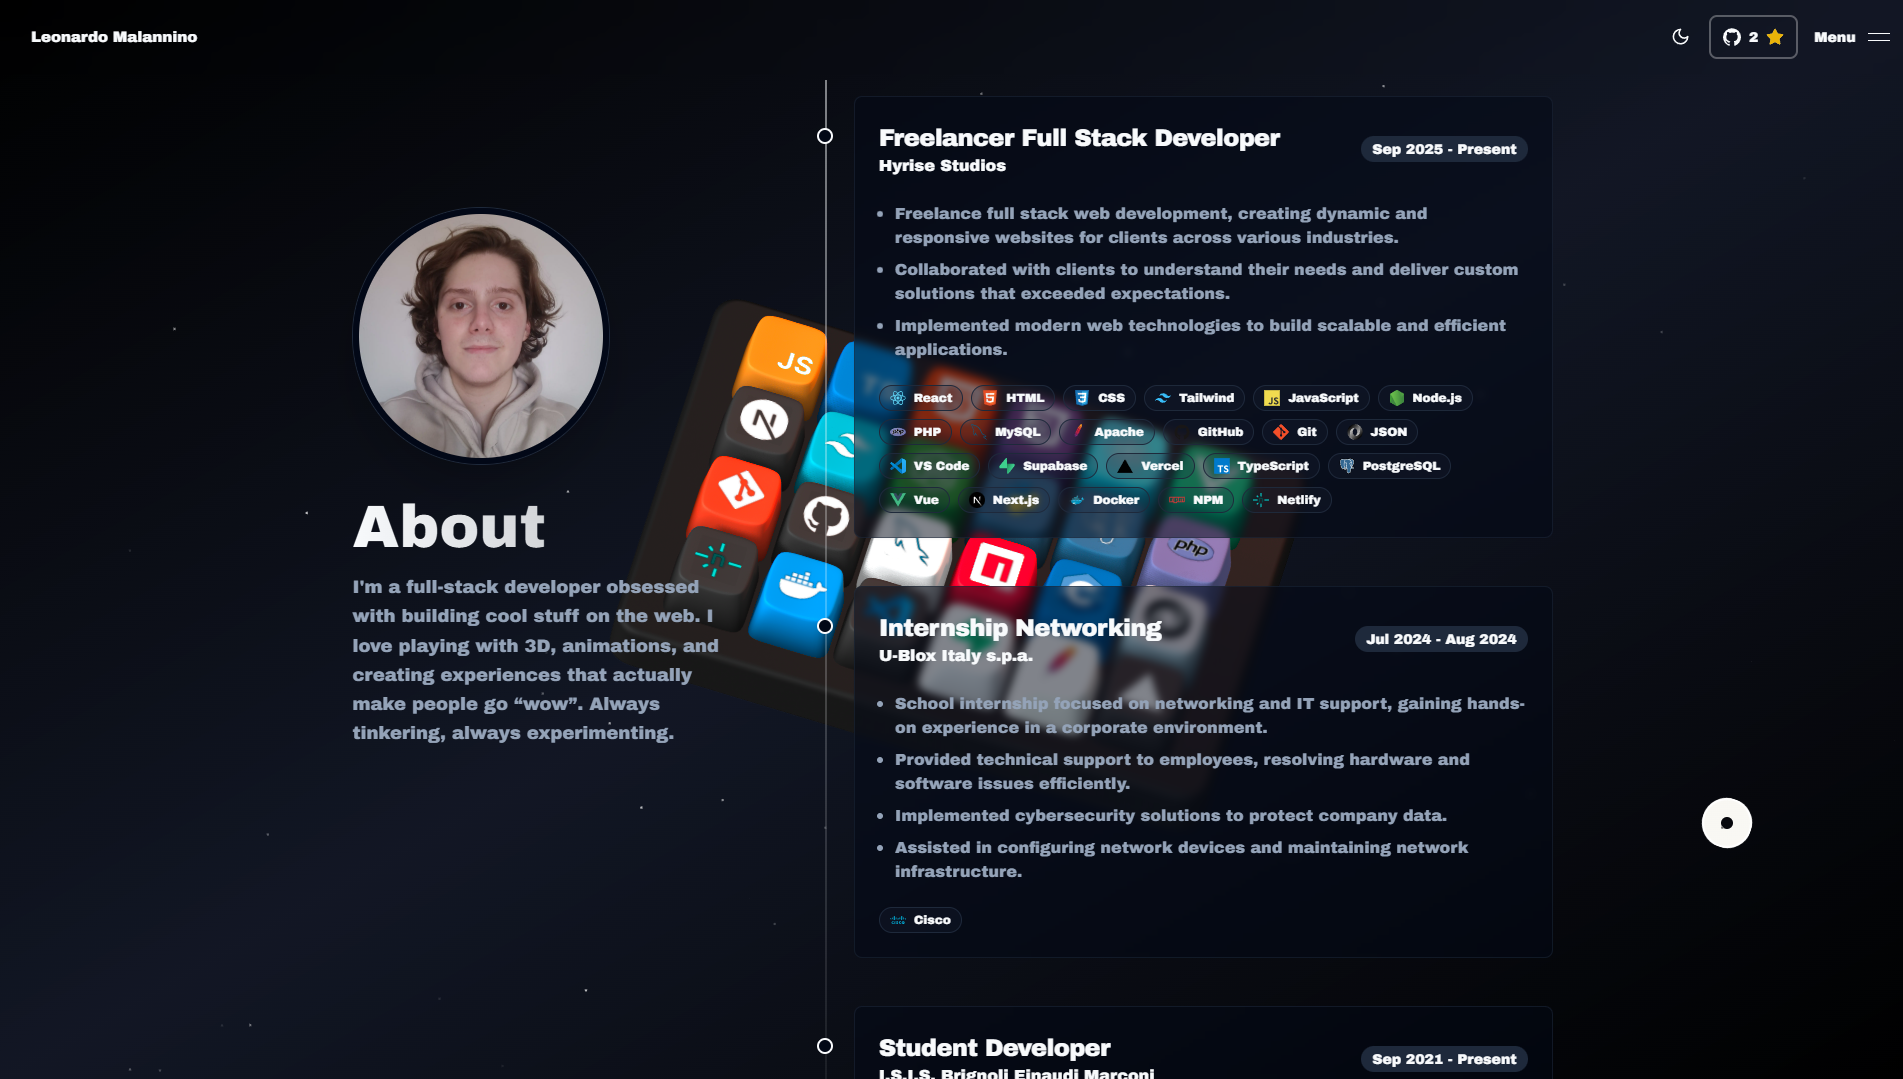
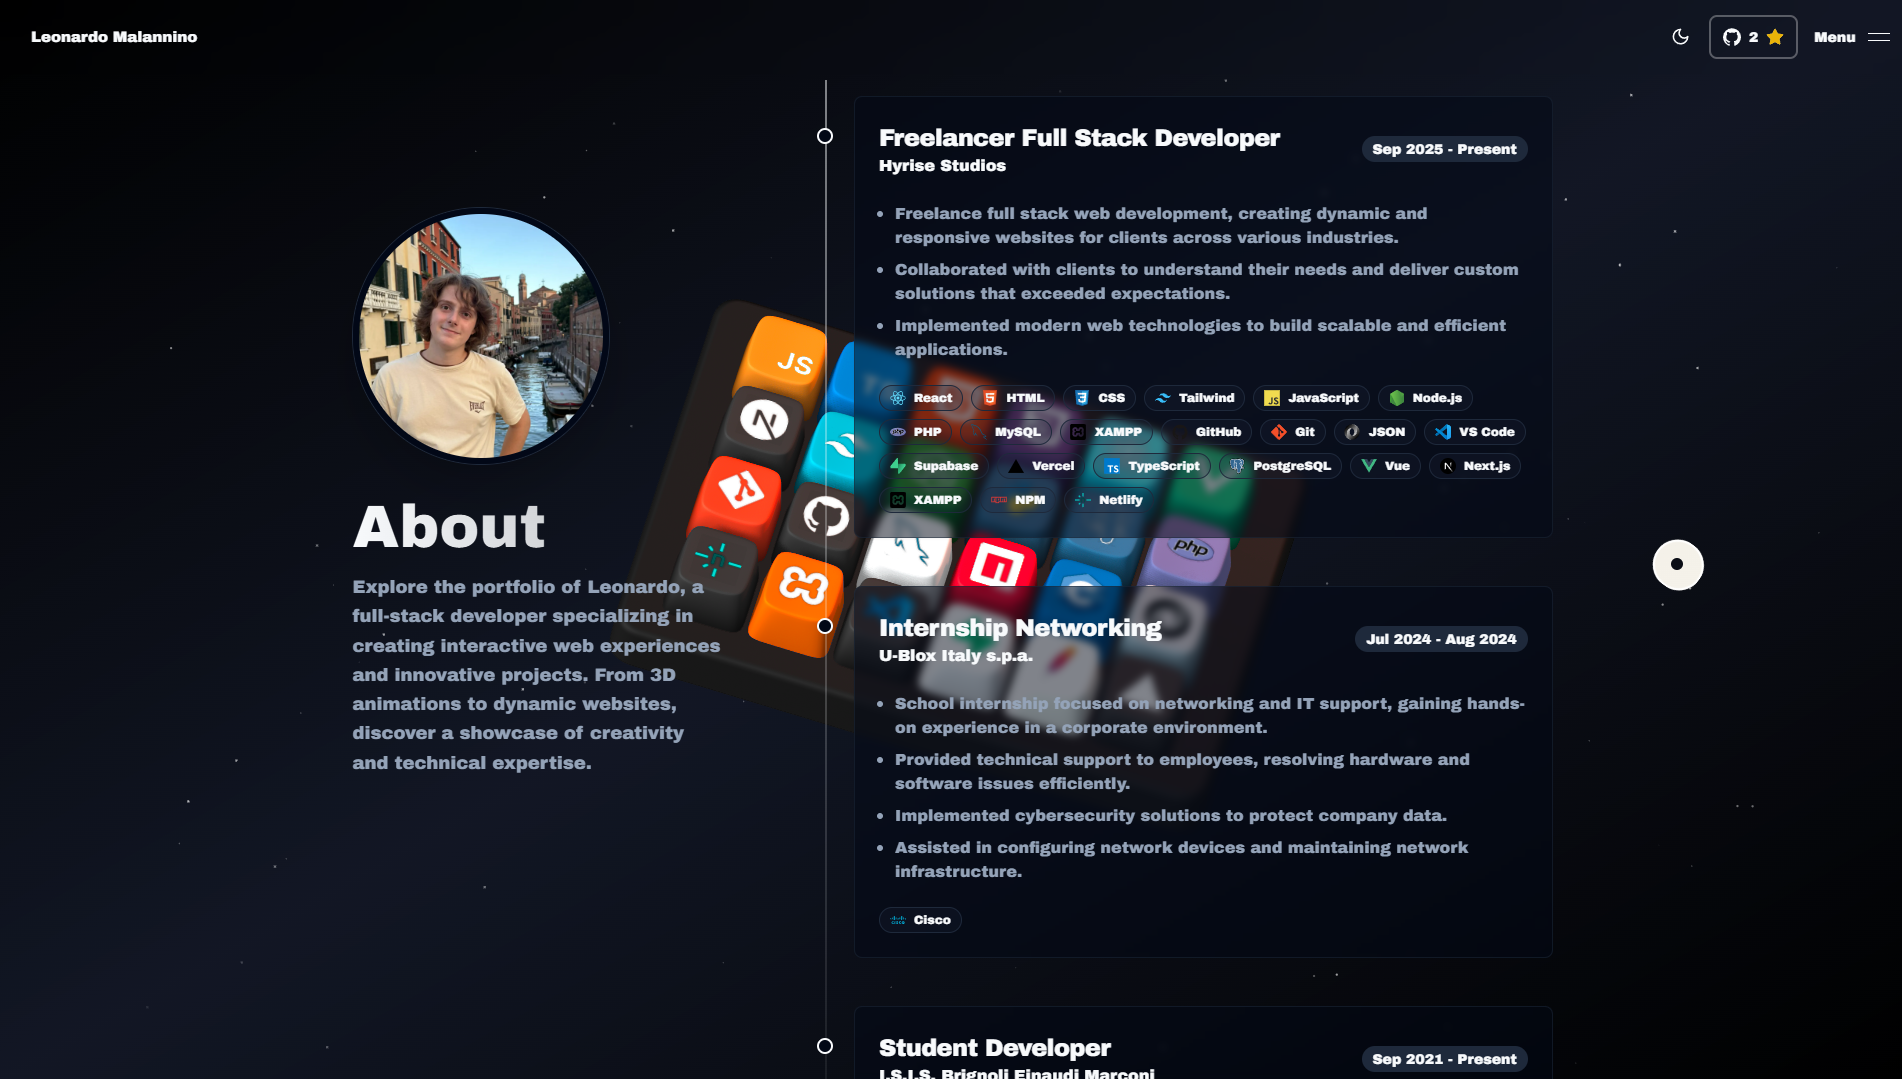
updated profile image and modified README for clarity

diff --git a/src/components/sections/about.tsx b/src/components/sections/about.tsx
@@ -26,7 +26,7 @@ const AboutSection = () => {
                className="relative mx-auto lg:mx-0 w-48 h-48 md:w-56 md:h-56 lg:w-64 lg:h-64 rounded-full border-[6px] border-background shadow-2xl overflow-hidden ring-1 ring-border"
             >
               <Image 
-                src="/assets/me.png" 
+                src="/assets/me.jpg" 
                 alt="Profile Photo" 
                 fill 
                 className="object-cover hover:scale-105 transition-transform duration-500"

diff --git a/README.md b/README.md
@@ -18,58 +18,10 @@ Hey! Welcome to my personal portfolio website repository. Here you'll find my wo
 - **Animations**: GSAP, Framer Motion, Spline Runtime
 - **Misc**: Resend, Socketio, Zod
 
-## 🚀 Getting Started
-
-### Prerequisites
-
-- Node.js (v14+)
-- npm or yarn
-
-### Installation
-
-1. Clone the repository:
-
-    ```bash
-    git clone https://github.com/malannino-leonardo/Portfolio.git
-    ```
-
-2. Navigate to the project directory:
-
-    ```bash
-    cd Portfolio
-    ```
-
-3. Install dependencies:
-
-    ```bash
-    npm install
-    # or
-    yarn install
-    ```
-
-4. Run the development server:
-
-    ```bash
-    npm run dev
-    # or
-    yarn dev
-    ```
-
-5. Open [http://localhost:3000](http://localhost:3000) in your browser to check it out!
-
-## 🚀 Deployment
-
-This site runs on Vercel. To deploy your own version, follow these steps:
-
-1. Push your code to GitHub.
-2. Link your repository to Vercel.
-3. Vercel takes care of the rest.
-
-## 🤝 Contributing
-
-Found something you'd like to improve? Feel free to open an issue or submit a pull request. I'm always open to feedback and contributions!
-
 ## 📄 License
 
 This project is open source under the [MIT License](LICENSE).
 
+# 📬 Contact
+
+Feel free to reach out if you have any questions or would like to collaborate!
